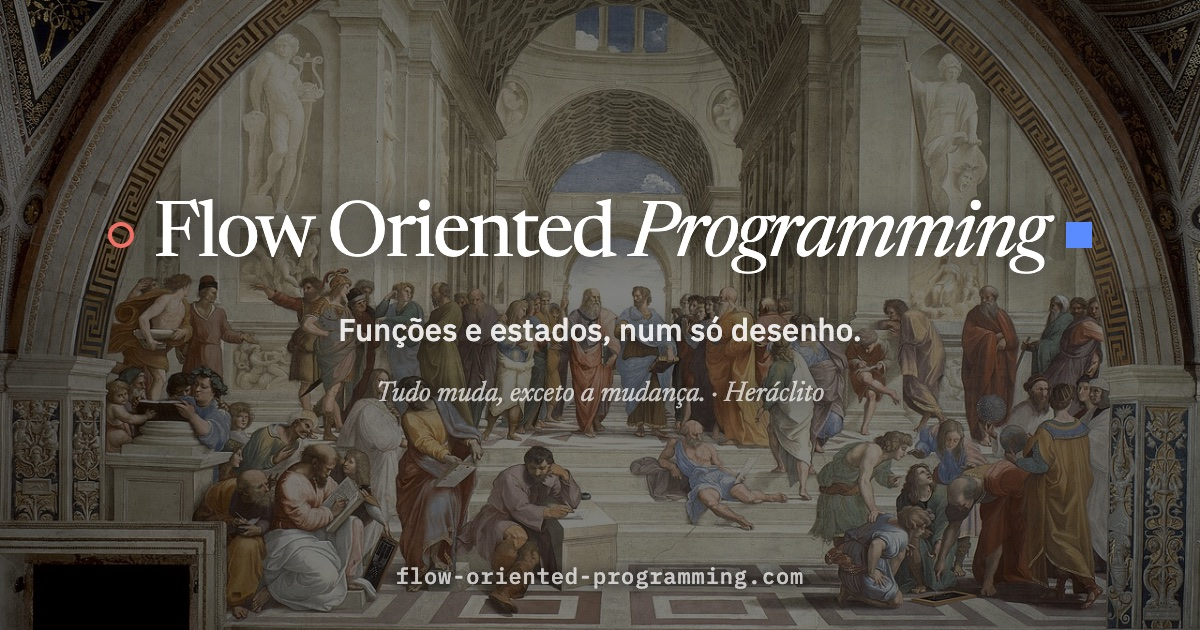
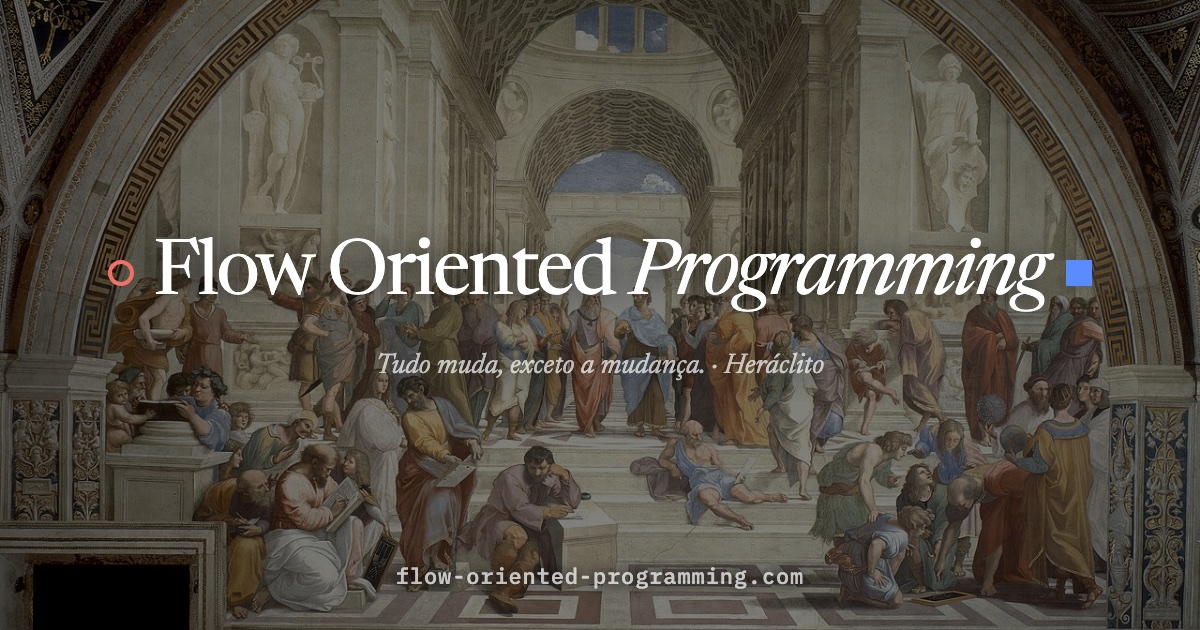
Atualiza título FOP, exemplos de sólidos/abstratos e imagem OG.

Changed region(s): [[0.0925, 0.3016, 0.925, 0.6635]]

diff --git a/flow-component/docs/indice-ast.html b/flow-component/docs/indice-ast.html
@@ -3,7 +3,7 @@
 <head>
 <meta charset="utf-8">
 <meta name="viewport" content="width=device-width, initial-scale=1">
-<title>Flow Oriented Programming</title>
+<title>FOP: Flow Oriented Programming</title>
 <link rel="icon" type="image/svg+xml" href="favicon.svg">
 <link rel="apple-touch-icon" href="apple-touch-icon.png">
 <link rel="canonical" href="https://flow-oriented-programming.com/">
@@ -13,7 +13,7 @@
 <!-- Compartilhamento (LinkedIn, Facebook, WhatsApp, Slack…) -->
 <meta property="og:type" content="article">
 <meta property="og:site_name" content="FOP · Flow Oriented Programming">
-<meta property="og:title" content="Flow Oriented Programming: fluxo visual com transpile para qualquer linguagem">
+<meta property="og:title" content="FOP: Flow Oriented Programming">
 <meta property="og:description" content="Linguagem visual universal: o programa é um fluxo (funções, estados, seleção, repetição, try/catch), transpilável para qualquer linguagem.">
 <meta property="og:url" content="https://flow-oriented-programming.com/">
 <meta property="og:image" content="https://flow-oriented-programming.com/img/og-fop.jpg">
@@ -25,11 +25,11 @@
 <meta property="og:locale" content="pt_BR">
 <meta property="og:locale:alternate" content="en_US">
 <meta name="twitter:card" content="summary_large_image">
-<meta name="twitter:title" content="Flow Oriented Programming: fluxo visual com transpile para qualquer linguagem">
+<meta name="twitter:title" content="FOP: Flow Oriented Programming">
 <meta name="twitter:description" content="Linguagem visual universal: o programa é um fluxo (funções, estados, seleção, repetição, try/catch), transpilável para qualquer linguagem.">
 <meta name="twitter:image" content="https://flow-oriented-programming.com/img/og-fop.jpg">
 <meta name="twitter:image:alt" content="A Escola de Atenas, de Rafael, com o título Flow Oriented Programming e a frase de Heráclito: Tudo muda, exceto a mudança.">
-<script type="application/ld+json">{"@context":"https://schema.org","@type":"TechArticle","headline":"Flow Oriented Programming","description":"Linguagem visual universal: o programa é um fluxo (funções, estados, seleção, repetição, try/catch), transpilável para qualquer linguagem.","url":"https://flow-oriented-programming.com/","mainEntityOfPage":"https://flow-oriented-programming.com/","image":"https://flow-oriented-programming.com/img/og-fop.jpg","inLanguage":["pt-BR","en"],"about":"Linguagem de programação visual baseada em fluxo, com transpile para qualquer linguagem","license":"https://opensource.org/license/mit"}</script>
+<script type="application/ld+json">{"@context":"https://schema.org","@type":"TechArticle","headline":"FOP: Flow Oriented Programming","description":"Linguagem visual universal: o programa é um fluxo (funções, estados, seleção, repetição, try/catch), transpilável para qualquer linguagem.","url":"https://flow-oriented-programming.com/","mainEntityOfPage":"https://flow-oriented-programming.com/","image":"https://flow-oriented-programming.com/img/og-fop.jpg","inLanguage":["pt-BR","en"],"about":"Linguagem de programação visual baseada em fluxo, com transpile para qualquer linguagem","license":"https://opensource.org/license/mit"}</script>
 <link rel="preconnect" href="https://fonts.googleapis.com">
 <link rel="preconnect" href="https://fonts.gstatic.com" crossorigin>
 <link href="https://fonts.googleapis.com/css2?family=IBM+Plex+Mono:wght@400;500;600&family=IBM+Plex+Sans:ital,wght@0,400;0,500;0,600;0,700;1,400&family=Newsreader:ital,opsz,wght@0,6..72,400;0,6..72,500;0,6..72,600;1,6..72,400;1,6..72,500&display=swap" rel="stylesheet">
@@ -726,12 +726,12 @@ const EXAMPLES = {
   posicional: { num: "3.6.2", title: "Posicional", sub: true, lead: [["D","Objeto posicional é a caixa cujos campos são acessados pela posição."],["T","<code>lista.length</code> e o índice leem pela ordem."]],
     code: J("async function main() {", "  const lista = [1, 2, 3];", "  const total = await contar(lista);", "}", "", "async function contar(lista) {", "  const total = lista.length;", "  return total;", "}"),
     flow: main([F("n2", "contar", { ins: ["lista"], outs: ["total"], args: { lista: '[1, 2, 3]', total: '3' } })]) },
-  dadoConcreto: { num: "8.1", title: "Dado sólido", lead: [["D","Dado concreto é o que tem valor."],["T","O seu quadrado é preenchido, e o valor aparece no estado."]], opts: { fnStates: false },
-    code: J("async function main() {", "  const idade = 30;", "}"),
-    flow: main([], { args: { idade: '30' } }) },
-  dadoAbstrato: { num: "8.2", title: "Dado abstrato", lead: [["D","Dado abstrato é o que ainda não tem valor."],["T","O seu quadrado é vazado."]], opts: { fnStates: false },
-    code: J("async function main(idade) {", "}"),
-    flow: main([], { ins: ["idade"] }) },
+  dadoConcreto: { num: "8.1", title: "Dado sólido", lead: [["D","Dado sólido é o que tem valor."],["T","O seu quadrado é preenchido, e o valor aparece no estado."],["T","<code>dobrar</code> recebe <code>idade</code> como entrada."]], opts: { fnStates: false, hideRoot: true },
+    code: J("async function main() {", "  const idade = 30;", "  await dobrar(idade);", "", "  async function dobrar(idade) {", "  }", "}"),
+    flow: main([F("n2", "dobrar", { ins: ["idade"], args: { idade: '30' } })]) },
+  dadoAbstrato: { num: "8.2", title: "Dado abstrato", lead: [["D","Dado abstrato é o que ainda não tem valor."],["T","O seu quadrado é vazado."],["T","<code>dobrar</code> recebe <code>idade</code>, que ainda não tem valor."]], opts: { fnStates: false, hideRoot: true },
+    code: J("async function main(idade) {", "  await dobrar(idade);", "", "  async function dobrar(idade) {", "  }", "}"),
+    flow: main([F("n2", "dobrar", { ins: ["idade"] })], { ins: ["idade"] }) },
   todosDados: { num: "3.1", title: "Todos os tipos de dado", lead: [["D","Dados são as unidades mutáveis do fluxo."],["D","A visão de dados reúne todos os tipos de dado no mesmo estado."],["P","O identificador de um dado é um substantivo, como <code>mesa</code> ou <code>cadeira</code>."],["P","Todo dado tem um endereço, representado pelo seu nome."],["P","Em um mesmo contexto, ou bloco, endereços diferentes não podem ter nomes iguais."],["P","Todo dado simples é representado por um quadrado."],["P","Texto, número, booleano e nulo são dados simples."],["P","Toda caixa é representada por um cubo."],["P","O objeto é uma caixa, com campos chaveados ou posicionais."],["P","A função usada como dado continua sendo função, representada por um círculo."]], opts: { fnStates: false },
     beforePlan: `<div class="intro"><p>Dados podem ser:</p><ul><li><svg class="di" width="16" height="16" viewBox="0 0 16 16" aria-hidden="true"><path d="M2 4V2.500h12V4M8 2.500v11M5.500 13.500h5" fill="none" stroke="var(--dado)" stroke-width="1.600" stroke-linecap="round" stroke-linejoin="round"/></svg><span>texto</span></li><li><svg class="di" width="16" height="16" viewBox="0 0 16 16" aria-hidden="true"><path d="M5.500 2 4.500 14M11.500 2 10.500 14M2 5.500h12.500M1.500 10.500H14" fill="none" stroke="var(--dado)" stroke-width="1.600" stroke-linecap="round"/></svg><span>número</span></li><li><svg class="di" width="16" height="16" viewBox="0 0 16 16" aria-hidden="true"><rect x="1.500" y="4" width="13" height="8" rx="4" fill="none" stroke="var(--dado)" stroke-width="1.500"/><circle cx="11" cy="8" r="2.300" fill="var(--dado)"/></svg><span>booleano</span></li><li><svg class="di" width="16" height="16" viewBox="0 0 16 16" aria-hidden="true"><circle cx="8" cy="8" r="6" fill="var(--fn)"/></svg><span>função</span></li><li><svg class="di" width="16" height="16" viewBox="0 0 16 16" aria-hidden="true"><path d="M8 1.500 14 5v6.500L8 15 2 11.500V5Z M2 5l6 3.500L14 5 M8 8.500V15" fill="var(--dado)" stroke="var(--paper)" stroke-width=".9" stroke-linejoin="round"/></svg><span>objeto</span></li><li><svg class="di" width="16" height="16" viewBox="0 0 16 16" aria-hidden="true"><circle cx="8" cy="8" r="5.500" fill="none" stroke="var(--dado)" stroke-width="1.500"/><path d="M4 12 12 4" stroke="var(--dado)" stroke-width="1.500" stroke-linecap="round"/></svg><span>nulo</span></li></ul></div>`,
     code: J("async function main() {", "  const texto = \"Ana\";", "  const numero = 42;", "  const booleano = true;", "  const funcao = dobrar;", "  const pessoa = { nome: \"Ana\", idade: 30 };", "  const lista = [1, 2, 3];", "  const vazio = null;", "}", "", "async function dobrar(x) {", "  const dobro = x * 2;", "  return dobro;", "}"),
@@ -804,17 +804,19 @@ const EXAMPLES = {
     code: J("async function main() {", "  await maquina.cobrar();", "  await arquivo.ler();", "  await pessoa.aprovar();", "}"),
     flow: main([F("n2", "cobrar", { agent: "maquina" }), F("n3", "ler", { agent: "arquivo" }), F("n4", "aprovar", { agent: "pessoa" })]) },
 
-  responsavelAbstrato: { num: "11.3", title: "Responsável abstrato", lead: [["D","Responsável abstrato é o que ainda não foi definido."],["P","Ele é o espaço a ser preenchido: ainda não há quem execute."],["T","<code>cobrar</code> não tem responsável, e fica vazada."],["P","Ao receber um responsável, a função deixa de ser abstrata e se torna sólida."]],
-    code: J("async function main() {", "  const { cobrar } = state;", "  await cobrar();", "}"),
-    flow: main([F("n2", "cobrar", { agent: null })]) },
+  responsavelAbstrato: { num: "11.3", title: "Responsável abstrato", lead: [["D","Responsável abstrato é o que ainda não foi definido."],["P","Ele é o espaço a ser preenchido: ainda não há quem execute."],["T","<code>cobrar</code> não tem responsável, e fica vazada."],["T","<code>cobrar</code> recebe <code>valor</code> como entrada."],["P","Ao receber um responsável, a função deixa de ser abstrata e se torna sólida."]],
+    code: J("async function main() {", "  const { cobrar } = state;", "  const valor = 100;", "  await cobrar(valor);", "}"),
+    flow: main([F("n2", "cobrar", { agent: null, ins: ["valor"], args: { valor: '100' } })]) },
 
-  abstrata: { num: "8.4", title: "Função abstrata", lead: [["D","Função abstrata é a que não tem endereço físico."],["T","A sua barra é só contorno."],["P","É o único caso de barra vazada nos exemplos."],["P","As estruturas universais ficam no plano abstrato, ainda vazio."],["P","O que se conhece no plano abstrato forma a mesma camada."],["P","Camada não é arquivo."]],
-    code: J("async function main() {", "  const { hello } = state;", "  await hello();", "}"),
-    flow: main([F("n2", "hello", { agent: null })]) },
+  abstrata: { num: "8.4", title: "Função abstrata", lead: [["D","Função abstrata é a que não tem endereço físico."],["T","A sua barra é só contorno."],["T","Ela pode ser passada como entrada: <code>processar</code> recebe <code>hello</code>, o círculo vazado com borda vermelha."],["T","<code>hello</code> recebe <code>nome</code> como entrada."],["P","É o único caso de barra vazada nos exemplos."],["P","As estruturas universais ficam no plano abstrato, ainda vazio."],["P","O que se conhece no plano abstrato forma a mesma camada."],["P","Camada não é arquivo."]],
+    opts: { hideRoot: true },
+    code: J("async function main() {", "  const { hello } = state;", "  const nome = \"Ana\";", "  await maquina.processar(hello);", "  await hello(nome);", "}"),
+    flow: main([F("n2", "processar", { agent: "maquina", ins: ["hello"] }), F("n3", "hello", { agent: null, ins: ["nome"], args: { nome: '"Ana"' } })]) },
 
-  solida: { num: "8.3", title: "Função sólida", lead: [["D","Função sólida é a que tem endereço físico."],["P","Toda função de 1ª ordem é sólida."],["P","A camada abstrata se torna sólida ao receber um endereço."],["T","A barra é preenchida, e há quem execute."],["P","Para executar, a camada abstrata precisa ser preenchida com um sólido."]],
-    code: J("async function main() {", "  await maquina.hello();", "}"),
-    flow: main([F("n2", "hello", { agent: "maquina" })]) },
+  solida: { num: "8.3", title: "Função sólida", lead: [["D","Função sólida é a que tem endereço físico."],["P","Toda função de 1ª ordem é sólida."],["P","A camada abstrata se torna sólida ao receber um endereço."],["T","A barra é preenchida, e há quem execute."],["T","<code>cobrar</code> recebe <code>valor</code> como entrada."],["P","Para executar, a camada abstrata precisa ser preenchida com um sólido."]],
+    opts: { hideRoot: true },
+    code: J("async function main() {", "  const valor = 100;", "  await maquina.cobrar(valor);", "}"),
+    flow: main([F("n2", "cobrar", { agent: "maquina", ins: ["valor"], args: { valor: '100' } })]) },
 
   publica: { num: "9.1", title: "Pública", lead: [["D","Função pública é a que pode ser acessada fora do arquivo."],["P","Dados e funções podem ser públicos ou privados."]],
     code: J("export async function main() {", "}"), flow: main([]) },
@@ -901,20 +903,20 @@ const GROUPS = [
   { id: "blocosec", n: "7.", title: "Blocos", keys: ["blocos","tryFor"] },
   { id: "solidos", n: "8.", title: "Sólidos e abstratos", html: `<div class="legend four" aria-label="Sólidos e abstratos">
   <div class="it">
-    <svg width="22" height="22" viewBox="0 0 22 22" aria-hidden="true"><circle class="fnc" cx="11" cy="11" r="9"/></svg>
-    <div><b>Função sólida</b><span>tem endereço físico</span></div>
-  </div>
-  <div class="it">
-    <svg width="22" height="22" viewBox="0 0 22 22" aria-hidden="true"><circle class="fna" cx="11" cy="11" r="8"/></svg>
-    <div><b>Função abstrata</b><span>sem endereço físico</span></div>
-  </div>
-  <div class="it">
     <svg width="22" height="22" viewBox="0 0 22 22" aria-hidden="true"><rect class="dtq" x="3" y="3" width="16" height="16"/></svg>
     <div><b>Dado sólido</b><span>tem valor</span></div>
   </div>
   <div class="it">
     <svg width="22" height="22" viewBox="0 0 22 22" aria-hidden="true"><rect class="dta" x="4" y="4" width="14" height="14"/></svg>
     <div><b>Dado abstrato</b><span>ainda sem valor</span></div>
+  </div>
+  <div class="it">
+    <svg width="22" height="22" viewBox="0 0 22 22" aria-hidden="true"><circle class="fnc" cx="11" cy="11" r="9"/></svg>
+    <div><b>Função sólida</b><span>tem endereço físico</span></div>
+  </div>
+  <div class="it">
+    <svg width="22" height="22" viewBox="0 0 22 22" aria-hidden="true"><circle class="fna" cx="11" cy="11" r="8"/></svg>
+    <div><b>Função abstrata</b><span>sem endereço físico</span></div>
   </div>
 </div>`, rules: ["Sólidos possuem endereço físico: são os entes que compõem o componente.", "Abstratos não possuem endereço físico: são o espaço a ser preenchido.", "Dados e funções podem ser sólidos ou abstratos.", "As funções não devem possuir sólidos, apenas abstratos."], keys: ["dadoConcreto","dadoAbstrato","solida","abstrata"] },
   { id: "publico", hidden: true, n: "9.", title: "Público e privado", keys: ["publica","privada"] },
@@ -941,7 +943,7 @@ const prune = (node) => {
 const esc = (s) => String(s).replace(/&/g, "&amp;").replace(/</g, "&lt;").replace(/>/g, "&gt;");
 
 // ── idioma (EN / PT-BR) ──
-const EN = {"examples":{"main":{"t":"The unit of processing","r":["A function is the unit of processing, whose purpose is to transform an initial state into a final state.","Functions may have an input and an output.","The input is the data that the function receives.","The output is the data that the function returns.","A function has, at most, one input and one output."]},"filha":{"t":"Child function","r":["A function may have child functions, by composition."]},"irma":{"t":"Sibling function","r":["Functions may have sibling functions.","A sibling function is one that shares the same parent with another function.","Sibling functions may be sequential or parallel."]},"paralela":{"t":"Parallel function","r":["Parallel functions are siblings that occupy the same step.","Parallel functions execute together.","Parallel functions finish before the next step begins."]},"sequencial":{"t":"Sequential function","r":["Functions may be sequential.","Sequential functions are siblings in consecutive steps.","A sequential function starts when the previous one finishes.","Parallel and sequential functions may be combined in the same flow."]},"texto":{"t":"Text","r":["Text is a sequence of characters treated as data."]},"numero":{"t":"Number","r":["A number is data that expresses quantity."]},"booleano":{"t":"Boolean","r":["A boolean is data that admits two values: true and false.","The boolean is what decides a selection."]},"funcaoDado":{"t":"Function as data","r":["A function is also data, serving as a replaceable object of a function.","A function stored in a variable is treated as data."]},"objeto":{"t":"Object","r":["An object is the element that can hold more than one value at the same time, which may be function and/or state.","The fields of an object may be keyed or positional."]},"dadoConcreto":{"t":"Concrete data","r":["Concrete data is data that has a value.","Its square is filled, and the value appears in the state."]},"dadoAbstrato":{"t":"Abstract data","r":["Abstract data is data that does not have a value yet.","Its square is hollow."]},"todosDados":{"t":"All data types","r":["Data are the mutable units of the flow.","The data overview gathers all data types in the same state.","The identifier of a piece of data is a noun, such as <code>mesa</code> or <code>cadeira</code>.","Every piece of data has an address, represented by its name.","Within the same context, or block, different addresses cannot have the same name.","Every simple data is represented by a square.","Text, number, boolean and null are simple data.","Every box is represented by a cube.","The object is a box, with keyed or positional fields.","A function used as data remains a function, represented by a circle."]},"tipoNulo":{"t":"Null","r":["Null is data that represents the absence of a value.","A function returns null when it does not find what it is looking for."]},"estado":{"t":"Flow state","r":["The state is the set of functions and data available in a step.","The state is listed below the step."]},"estadoInicial":{"t":"Initial state","r":["The initial state is what exists before the first function."]},"estadoCaixa":{"t":"State with an object","r":["An object in the state is a cube, with its fields and values right below."]},"estadoAbstrato":{"t":"Abstract state","r":["The abstract state is data that no function of the flow produces.","Whoever calls the flow provides it.","Its square is hollow."]},"se":{"t":"if","r":["Selection is the structure that decides, based on data, where the flow goes.","The condition is assigned to a variable before the <code>if</code>.","<code>enviar</code> only executes if the condition is true.","Selection is used when it is not known what to execute before having the information."]},"seSenao":{"t":"if and else","r":["<code>if</code> and <code>else</code> occupy the same step.","Only one of the branches executes."]},"switchEx":{"t":"switch","r":["The <code>switch</code> is the selection with several paths by value.","Each <code>case</code> is equivalent to an <code>if</code>.","The cases occupy the same step, in parallel."]},"repFor":{"t":"for","r":["Repetition is the structure that executes a block several times.","The collection is assigned to a variable before the loop.","<code>notificar</code> executes once per item.","The possible repetitions are <code>for</code>, <code>while</code> and <code>do-while</code>."]},"repFor2":{"t":"for","r":["The body of a loop may have sequential and parallel steps."]},"repWhile":{"t":"while","r":["The <code>while</code> repeats while the condition is true.","The block label shows the condition."]},"tryCatch":{"t":"try / catch","r":["<code>try/catch</code> is the structure that handles failure.","If <code>cobrar</code> fails, the flow goes to the <code>catch</code>.","<code>avisar</code> executes in the <code>catch</code>.","The <code>try/catch</code> comes first; the functions are defined outside <code>main</code>."]},"tryFor":{"t":"Combined blocks","r":["Blocks may be nested.","Here there is a <code>try/catch</code> inside a <code>for</code>."]},"fileMesmo":{"t":"Two functions in the same file","r":["A file is the physical address of a first-order function.","Several functions may share the same file.","Every piece of data and every function has an address.","The file organizes the solid addresses."]},"fileOutro":{"t":"Different files","r":["Distinct files are distinct physical addresses.","A file is not a layer."]},"fileObjeto":{"t":"File as object","r":["The file is also an object and a state.","It is a box with a physical address, which holds data and functions."]},"abstrata":{"t":"Layer","r":["A layer is the abstract, that is, what has no physical address.","Its bar is only an outline.","It is the only case of a hollow bar in the examples.","Universal structures stay in the abstract plan, still empty.","What is known in the abstract plan forms the same layer.","A layer is not a file."]},"solida":{"t":"Solid","r":["A solid is what has a physical address.","Every first-order function is solid.","The abstract layer becomes solid when it receives an address.","The bar is filled, and someone executes it.","To execute, the abstract layer needs to be filled with a solid."]},"publica":{"t":"Public","r":["A public function is one that can be accessed outside the file.","Data and functions may be public or private."]},"privada":{"t":"Private","r":["A private function is one that exists only inside the file or the box.","Private members are accessed only inside the box.","A nested private function is called first and defined outside <code>main</code>."]},"seAninhado":{"t":"Nested if","r":["An <code>if</code> may be inside the <code>else</code> of another.","There are three possible paths, and only one executes."]},"repDoWhile":{"t":"do-while","r":["The <code>do-while</code> executes at least once.","It repeats while the condition holds."]},"solidSrp":{"t":"Single responsibility","r":["Single responsibility means that each function takes care of one thing only.","<code>pedido</code> only composes.","The work is in <code>validar</code>, <code>cobrar</code> and <code>enviar</code>.","Flow applies the SOLID principles."]},"solidDip":{"t":"Depend on the abstract","r":["The flow depends on the abstract, not on whoever implements it.","<code>cobrar</code> is an abstract layer.","Changing the responsible party does not change the rest of the flow."]},"padFactory":{"t":"Factory","r":["A factory is the function that creates and returns an already assembled object."]},"padSingleton":{"t":"Singleton","r":["A singleton is the single, shared instance.","<code>usarA</code> and <code>usarB</code> read the same <code>config</code>.","Design patterns (factory, singleton) have their own form in the plan."]},"oopFlow":{"t":"Instantiation","r":["Instantiating a class corresponds to a responsible object.","Each method is a step.","Instantiating a class is equivalent to instantiating a flow."]},"folha":{"t":"Leaf","r":["Only the leaf occupies a step in the plan.","<code>hello</code> is a leaf, with one bar and one step."]},"useCase":{"t":"Use case","r":["Every system is a set of use cases.","<code>vender</code> is a use case, the entry point of a complete scenario."]},"chaveado":{"t":"Keyed","r":["A keyed object is the box whose fields are accessed by name.","<code>pessoa.nome</code> reads the field by key."]},"posicional":{"t":"Positional","r":["A positional object is the box whose fields are accessed by position.","<code>lista.length</code> and the index read by order."]},"blocos":{"t":"Blocks","r":["A block is the structure that groups steps in the plan: selection, repetition or try/catch.","The block has its own label and covers the time of the leaves inside it.","The state still lists what is available at each step of the block."]},"responsavel":{"t":"Responsible party","r":["The responsible party is whoever executes the step.","It is the source, the origin of the function.","Every responsible party has an agent name.","The responsible party may be solid or abstract."]},"responsavelSolido":{"t":"Solid responsible party","r":["A solid responsible party is one that is defined in the step.","Every function that has a responsible party becomes solid.","A machine, a file, a person and an AI are solid responsible parties.","<code>cobrar</code> is executed by a machine.","<code>aprovar</code> is executed by a person."]},"responsavelAbstrato":{"t":"Abstract responsible party","r":["An abstract responsible party is one that has not been defined yet.","It is the space to be filled: there is still no one to execute.","<code>cobrar</code> has no responsible party, so it stays hollow.","When it receives a responsible party, the function stops being abstract and becomes solid."]}},"groups":{"flow":{"t":"Flow"},"sistema":{"t":"System","rules":["A system is a set of execution flows.","The system is formed by units of processing, the functions, and by processable units, the states.","In a system, data and function calls are equivalent."]},"funcoes":{"t":"Functions"},"estados":{"t":"States"},"selecao":{"t":"Selection"},"repeticao":{"t":"Repetition"},"trycatch":{"t":"try / catch"},"blocosec":{"t":"Blocks"},"responsaveis":{"t":"Responsible parties","lead":"Who executes the step."},"files":{"t":"Files"},"solidos":{"t":"Solid and abstract","rules":["Solids have a physical address: they are the entities that make up the component.","Abstracts have no physical address: they are the space to be filled.","Data and functions may be solid or abstract.","Functions must not have solids, only abstracts."]},"publico":{"t":"Public and private"},"praticas":{"t":"Development best practices","lead":"The SOLID principles applied to the plan."},"padroes":{"t":"Design patterns"},"oop":{"t":"OOP and Flow"},"folhas":{"t":"Leaves and use cases","rules":["Leaves are functions without children.","Use cases are functions with children."]}}};
+const EN = {"examples":{"main":{"t":"The unit of processing","r":["A function is the unit of processing, whose purpose is to transform an initial state into a final state.","Functions may have an input and an output.","The input is the data that the function receives.","The output is the data that the function returns.","A function has, at most, one input and one output."]},"filha":{"t":"Child function","r":["A function may have child functions, by composition."]},"irma":{"t":"Sibling function","r":["Functions may have sibling functions.","A sibling function is one that shares the same parent with another function.","Sibling functions may be sequential or parallel."]},"paralela":{"t":"Parallel function","r":["Parallel functions are siblings that occupy the same step.","Parallel functions execute together.","Parallel functions finish before the next step begins."]},"sequencial":{"t":"Sequential function","r":["Functions may be sequential.","Sequential functions are siblings in consecutive steps.","A sequential function starts when the previous one finishes.","Parallel and sequential functions may be combined in the same flow."]},"texto":{"t":"Text","r":["Text is a sequence of characters treated as data."]},"numero":{"t":"Number","r":["A number is data that expresses quantity."]},"booleano":{"t":"Boolean","r":["A boolean is data that admits two values: true and false.","The boolean is what decides a selection."]},"funcaoDado":{"t":"Function as data","r":["A function is also data, serving as a replaceable object of a function.","A function stored in a variable is treated as data."]},"objeto":{"t":"Object","r":["An object is the element that can hold more than one value at the same time, which may be function and/or state.","The fields of an object may be keyed or positional."]},"dadoConcreto":{"t":"Solid data","r":["Solid data is data that has a value.","Its square is filled, and the value appears in the state.","<code>dobrar</code> receives <code>idade</code> as input."]},"dadoAbstrato":{"t":"Abstract data","r":["Abstract data is data that does not have a value yet.","Its square is hollow.","<code>dobrar</code> receives <code>idade</code>, which does not have a value yet."]},"todosDados":{"t":"All data types","r":["Data are the mutable units of the flow.","The data overview gathers all data types in the same state.","The identifier of a piece of data is a noun, such as <code>mesa</code> or <code>cadeira</code>.","Every piece of data has an address, represented by its name.","Within the same context, or block, different addresses cannot have the same name.","Every simple data is represented by a square.","Text, number, boolean and null are simple data.","Every box is represented by a cube.","The object is a box, with keyed or positional fields.","A function used as data remains a function, represented by a circle."]},"tipoNulo":{"t":"Null","r":["Null is data that represents the absence of a value.","A function returns null when it does not find what it is looking for."]},"estado":{"t":"Flow state","r":["The state is the set of functions and data available in a step.","The state is listed below the step."]},"estadoInicial":{"t":"Initial state","r":["The initial state is what exists before the first function."]},"estadoCaixa":{"t":"State with an object","r":["An object in the state is a cube, with its fields and values right below."]},"estadoAbstrato":{"t":"Abstract state","r":["The abstract state is data that no function of the flow produces.","Whoever calls the flow provides it.","Its square is hollow."]},"se":{"t":"if","r":["Selection is the structure that decides, based on data, where the flow goes.","The condition is assigned to a variable before the <code>if</code>.","<code>enviar</code> only executes if the condition is true.","Selection is used when it is not known what to execute before having the information."]},"seSenao":{"t":"if and else","r":["<code>if</code> and <code>else</code> occupy the same step.","Only one of the branches executes."]},"switchEx":{"t":"switch","r":["The <code>switch</code> is the selection with several paths by value.","Each <code>case</code> is equivalent to an <code>if</code>.","The cases occupy the same step, in parallel."]},"repFor":{"t":"for","r":["Repetition is the structure that executes a block several times.","The collection is assigned to a variable before the loop.","<code>notificar</code> executes once per item.","The possible repetitions are <code>for</code>, <code>while</code> and <code>do-while</code>."]},"repFor2":{"t":"for","r":["The body of a loop may have sequential and parallel steps."]},"repWhile":{"t":"while","r":["The <code>while</code> repeats while the condition is true.","The block label shows the condition."]},"tryCatch":{"t":"try / catch","r":["<code>try/catch</code> is the structure that handles failure.","If <code>cobrar</code> fails, the flow goes to the <code>catch</code>.","<code>avisar</code> executes in the <code>catch</code>.","The <code>try/catch</code> comes first; the functions are defined outside <code>main</code>."]},"tryFor":{"t":"Combined blocks","r":["Blocks may be nested.","Here there is a <code>try/catch</code> inside a <code>for</code>."]},"fileMesmo":{"t":"Two functions in the same file","r":["A file is the physical address of a first-order function.","Several functions may share the same file.","Every piece of data and every function has an address.","The file organizes the solid addresses."]},"fileOutro":{"t":"Different files","r":["Distinct files are distinct physical addresses.","A file is not a layer."]},"fileObjeto":{"t":"File as object","r":["The file is also an object and a state.","It is a box with a physical address, which holds data and functions."]},"abstrata":{"t":"Abstract function","r":["An abstract function is one that has no physical address.","Its bar is only an outline.","It can be passed as an input: <code>processar</code> receives <code>hello</code>, the hollow circle with a red border.","<code>hello</code> receives <code>nome</code> as input.","It is the only case of a hollow bar in the examples.","Universal structures stay in the abstract plan, still empty.","What is known in the abstract plan forms the same layer.","A layer is not a file."]},"solida":{"t":"Solid function","r":["A solid function is one that has a physical address.","Every first-order function is solid.","The abstract layer becomes solid when it receives an address.","The bar is filled, and someone executes it.","<code>cobrar</code> receives <code>valor</code> as input.","To execute, the abstract layer needs to be filled with a solid."]},"publica":{"t":"Public","r":["A public function is one that can be accessed outside the file.","Data and functions may be public or private."]},"privada":{"t":"Private","r":["A private function is one that exists only inside the file or the box.","Private members are accessed only inside the box.","A nested private function is called first and defined outside <code>main</code>."]},"seAninhado":{"t":"Nested if","r":["An <code>if</code> may be inside the <code>else</code> of another.","There are three possible paths, and only one executes."]},"repDoWhile":{"t":"do-while","r":["The <code>do-while</code> executes at least once.","It repeats while the condition holds."]},"solidSrp":{"t":"Single responsibility","r":["Single responsibility means that each function takes care of one thing only.","<code>pedido</code> only composes.","The work is in <code>validar</code>, <code>cobrar</code> and <code>enviar</code>.","Flow applies the SOLID principles."]},"solidDip":{"t":"Depend on the abstract","r":["The flow depends on the abstract, not on whoever implements it.","<code>cobrar</code> is an abstract layer.","Changing the responsible party does not change the rest of the flow."]},"padFactory":{"t":"Factory","r":["A factory is the function that creates and returns an already assembled object."]},"padSingleton":{"t":"Singleton","r":["A singleton is the single, shared instance.","<code>usarA</code> and <code>usarB</code> read the same <code>config</code>.","Design patterns (factory, singleton) have their own form in the plan."]},"oopFlow":{"t":"Instantiation","r":["Instantiating a class corresponds to a responsible object.","Each method is a step.","Instantiating a class is equivalent to instantiating a flow."]},"folha":{"t":"Leaf","r":["Only the leaf occupies a step in the plan.","<code>hello</code> is a leaf, with one bar and one step."]},"useCase":{"t":"Use case","r":["Every system is a set of use cases.","<code>vender</code> is a use case, the entry point of a complete scenario."]},"chaveado":{"t":"Keyed","r":["A keyed object is the box whose fields are accessed by name.","<code>pessoa.nome</code> reads the field by key."]},"posicional":{"t":"Positional","r":["A positional object is the box whose fields are accessed by position.","<code>lista.length</code> and the index read by order."]},"blocos":{"t":"Blocks","r":["A block is the structure that groups steps in the plan: selection, repetition or try/catch.","The block has its own label and covers the time of the leaves inside it.","The state still lists what is available at each step of the block."]},"responsavel":{"t":"Responsible party","r":["The responsible party is whoever executes the step.","It is the source, the origin of the function.","Every responsible party has an agent name.","The responsible party may be solid or abstract."]},"responsavelSolido":{"t":"Solid responsible party","r":["A solid responsible party is one that is defined in the step.","Every function that has a responsible party becomes solid.","A machine, a file, a person and an AI are solid responsible parties.","<code>cobrar</code> is executed by a machine.","<code>aprovar</code> is executed by a person."]},"responsavelAbstrato":{"t":"Abstract responsible party","r":["An abstract responsible party is one that has not been defined yet.","It is the space to be filled: there is still no one to execute.","<code>cobrar</code> has no responsible party, so it stays hollow.","<code>cobrar</code> receives <code>valor</code> as input.","When it receives a responsible party, the function stops being abstract and becomes solid."]}},"groups":{"flow":{"t":"Flow"},"sistema":{"t":"System","rules":["A system is a set of execution flows.","The system is formed by units of processing, the functions, and by processable units, the states.","In a system, data and function calls are equivalent."]},"funcoes":{"t":"Functions"},"estados":{"t":"States"},"selecao":{"t":"Selection"},"repeticao":{"t":"Repetition"},"trycatch":{"t":"try / catch"},"blocosec":{"t":"Blocks"},"responsaveis":{"t":"Responsible parties","lead":"Who executes the step."},"files":{"t":"Files"},"solidos":{"t":"Solid and abstract","rules":["Solids have a physical address: they are the entities that make up the component.","Abstracts have no physical address: they are the space to be filled.","Data and functions may be solid or abstract.","Functions must not have solids, only abstracts."]},"publico":{"t":"Public and private"},"praticas":{"t":"Development best practices","lead":"The SOLID principles applied to the plan."},"padroes":{"t":"Design patterns"},"oop":{"t":"OOP and Flow"},"folhas":{"t":"Leaves and use cases","rules":["Leaves are functions without children.","Use cases are functions with children."]}}};
 const EN_REPL = [["Este documento reúne as regras e as descrições de como utilizar a linguagem.","This document gathers the rules and descriptions of how to use the language."],["<b>Função sólida</b>", "<b>Solid function</b>"],["<b>Função abstrata</b>", "<b>Abstract function</b>"],["<b>Dado sólido</b>", "<b>Solid data</b>"],["<b>Dado abstrato</b>", "<b>Abstract data</b>"],["<span>tem endereço físico</span>", "<span>has a physical address</span>"],["<span>sem endereço físico</span>", "<span>no physical address</span>"],["<span>tem valor</span>", "<span>has a value</span>"],["<span>ainda sem valor</span>", "<span>no value yet</span>"],["O Flow é uma linguagem de programação visual e universal. Adicionalmente, pode ser empregado como notação de diagramação, permitindo a representação gráfica de sistemas e de processos. O programa é um fluxo desenhado, que pode ser transpilado para qualquer linguagem, e a linguagem oferece os recursos usuais: funções, dados, objetos, seleção, repetição e tratamento de erros.","Flow is a visual and universal programming language. Additionally, it can be used as a diagramming notation, allowing the graphical representation of systems and processes. The program is a drawn flow, which can be transpiled to any language, and the language offers the usual resources: functions, data, objects, selection, repetition and error handling."],["Todo sistema é composto, essencialmente, de unidades de processamento e de unidades processáveis, isto é, de funções e de estados. A função é a unidade de processamento, eterna e imutável, e por essa natureza é representada por um círculo. O estado é a unidade processável, o dado processado pela função, mutável e transitório, e por essa natureza é representado por um quadrado. Um software é um conjunto de fluxos de execução.","Every system is composed, essentially, of units of processing and processable units, that is, of functions and states. The function is the unit of processing, eternal and immutable, and by that nature is represented by a circle. The state is the processable unit, the data processed by the function, mutable and transient, and by that nature is represented by a square. A software is a set of execution flows."],["O desenho substitui a leitura linear do código-fonte, e a ordem de execução, o paralelismo e o caminho dos dados ficam explícitos, o que reduz o esforço de análise. Todos os fluxos de um sistema podem ser vistos em conjunto, e os componentes, por serem desacoplados a nível de serviço, podem ser substituídos em qualquer contexto. A representação visual também facilita o aprendizado de programação por iniciantes, pois permite expressar a lógica sem depender da sintaxe de uma linguagem.","The drawing replaces the linear reading of the source code, and the order of execution, the parallelism and the path of the data become explicit, which reduces the analysis effort. All the flows of a system can be seen together, and the components, being decoupled at the service level, can be replaced in any context. The visual representation also makes it easier for beginners to learn programming, since it allows logic to be expressed without depending on the syntax of a language."],["O modelo se aplica aos processos de software, ou seja, ao código, e à gestão de processos em geral, incluindo o gerenciamento de tarefas. Nesse segundo uso, o responsável por cada passo pode ser uma pessoa, um agente de IA, uma máquina ou outro sistema.","The model applies to software processes, that is, to code, and to process management in general, including task management. In this second use, the party responsible for each step can be a person, an AI agent, a machine or another system."],["Uma imagem vale mais que mil palavras.","A picture is worth a thousand words."],["Confúcio, 552–479 a.C.","Confucius, 552–479 BCE"],["<b>Função</b>","<b>Function</b>"],["<b>Dado</b>","<b>Data</b>"],["unidade de processamento","unit of processing"],["unidade processável","processable unit"],["<p>Dados podem ser:</p>","<p>Data can be:</p>"],["<span>texto</span>","<span>text</span>"],["<span>número</span>","<span>number</span>"],["<span>booleano</span>","<span>boolean</span>"],["<span>função</span>","<span>function</span>"],["<span>objeto</span>","<span>object</span>"],["<span>array</span>","<span>array</span>"],["<span>nulo</span>","<span>null</span>"]];
 let LANG = "pt"; try { LANG = localStorage.getItem("flow-docs-lang") === "en" ? "en" : "pt"; } catch {}
 const ui = (pt, en) => (LANG === "en" ? en : pt);
@@ -1036,7 +1038,7 @@ const paint = (key, ex, flat = false, noStates = false, table = false) => {
 // fluxo de abertura: um pedido completo, com seleção, repetição, paralelo, try/catch e responsáveis variados
 const renderHero = () => {
   const pedido = '{ id: 1, cliente: "Ana" }';
-  const fluxo = F("n1", "processarPedido", { file: "pedido.ts", kids: [
+  const fluxo = F("n1", "processarPedido", { file: "pedido.ts", ins: ["recusar"], kids: [
     F("n2", "receber", { outs: ["pedido"], args: { pedido } }),
     F("n3", "validar", { ins: ["pedido"], outs: ["valido"], args: { valido: "true" } }),
     { t: "if", id: "i1", test: "valido", kids: [

diff --git a/flow-component/docs/fn-svg.js b/flow-component/docs/fn-svg.js
@@ -887,7 +887,7 @@ var FlowAst = (() => {
       for (const n of r.node.ins) if (!r.node.args?.[n]?.trim() && !ext.has(n)) ext.set(n, { col: r.s, owner: r.node.id });
       else if (ext.has(n) && r.s < ext.get(n).col) ext.set(n, { col: r.s, owner: ext.get(n).owner });
     }
-    for (const [n, e] of ext) if (!made.has(n) && !loopVars.has(n)) add(e.col, { name: n, cube: false, fields: [n], abs: true, owner: e.owner, side: "in" });
+    for (const [n, e] of ext) if (!made.has(n) && !loopVars.has(n) && !sc.rows.some((q) => q.kind === "fn" && q.node.title === n)) add(e.col, { name: n, cube: false, fields: [n], abs: true, owner: e.owner, side: "in" });
     if (!all) return m;
     const consumerAt = (col, name) => {
       for (const r of sc.rows) {
@@ -1127,10 +1127,12 @@ var FlowAst = (() => {
         q.node.outs.forEach((o) => prod.add(o));
         for (const n of q.node.ins) if (q.node.args?.[n]?.trim()) prod.add(n);
       }
+      const fnTitles = new Set(rows.filter((q) => q.kind === "fn").map((q) => q.node.title));
       const mark = (x, list, side) => {
         if (!list.length) return "";
         const cube = list.length !== 1 || /^\s*\{/.test(f.args?.[list[0]] ?? "");
         const tip = list.join(", ");
+        if (!cube && side === "in" && !f.args?.[list[0]]?.trim() && !prod.has(list[0]) && fnTitles.has(list[0])) return `<g class="dm" data-id="${esc(f.id)}" data-side="${side}"><circle class="dotf a" cx="${x}" cy="${ym(i)}" r="4.5"/><title>${esc(tip)}</title></g>`;
         if (!cube && /^function\b/.test(f.args?.[list[0]] ?? "")) return `<g class="dm" data-id="${esc(f.id)}" data-side="${side}"><circle class="dotf" cx="${x}" cy="${ym(i)}" r="4.5"/><title>${esc(tip)}</title></g>`;
         return cube ? `<g class="dm" data-id="${esc(f.id)}" data-side="${side}"><path class="cube" transform="translate(${x - 5} ${ym(i) - 5.5})" d="M5 .5 L9.5 3 L9.5 8 L5 10.5 L.5 8 L.5 3 Z M.5 3 L5 5.5 L9.5 3 M5 5.5 V10.5"/><title>${esc(tip)}</title></g>` : `<g class="dm" data-id="${esc(f.id)}" data-side="${side}"><rect class="dot${side === "in" && !f.args?.[list[0]]?.trim() && !prod.has(list[0]) ? " a" : ""}" x="${x - 4}" y="${ym(i) - 4}" width="8" height="8"/><title>${esc(tip)}</title></g>`;
       };
@@ -1212,7 +1214,7 @@ var FlowAst = (() => {
 .pill.sw rect{fill:color-mix(in srgb,#d97706 20%,var(--paper,#fff))}.pill.sw text{fill:#d97706}
 .pill.lp rect{fill:color-mix(in srgb,#8b5cf6 20%,var(--paper,#fff))}.pill.lp text{fill:#8b5cf6}.pill.tr rect{fill:color-mix(in srgb,#22c55e 20%,var(--paper,#fff))}.pill.tr text{fill:#22c55e}.pill.ca rect{fill:color-mix(in srgb,#ef4444 20%,var(--paper,#fff))}.pill.ca text{fill:#ef4444}
 .ag{font:600 8px ui-monospace,Menlo,monospace;fill:#9a9a9a;text-transform:uppercase;letter-spacing:.04em}
-.dotf{fill:var(--fn,#dc2626);stroke:var(--fn,#dc2626);stroke-width:1.5}
+.dotf{fill:var(--fn,#dc2626);stroke:var(--fn,#dc2626);stroke-width:1.5}.dotf.a{fill:transparent}
 .sfn{fill:var(--fn,#dc2626);stroke:var(--fn,#dc2626);stroke-width:1.5}.sfn.a{fill:var(--paper,#fff)}
 .sdot{fill:var(--dado,#2563eb);stroke:var(--dado,#2563eb);stroke-width:1.3}.sdot.a{fill:var(--paper,#fff)}.scube{fill:var(--dado,#2563eb);stroke:var(--paper,#fff);stroke-width:.9;stroke-linejoin:round}.stt{opacity:1}.stt.old{opacity:.38}.dn.st{fill:var(--body,#44423d)}.stt:not(.old) .dn.st{fill:var(--ink,#14120f);font-weight:600}
 .fic{fill:#fff;opacity:.9;pointer-events:none}
